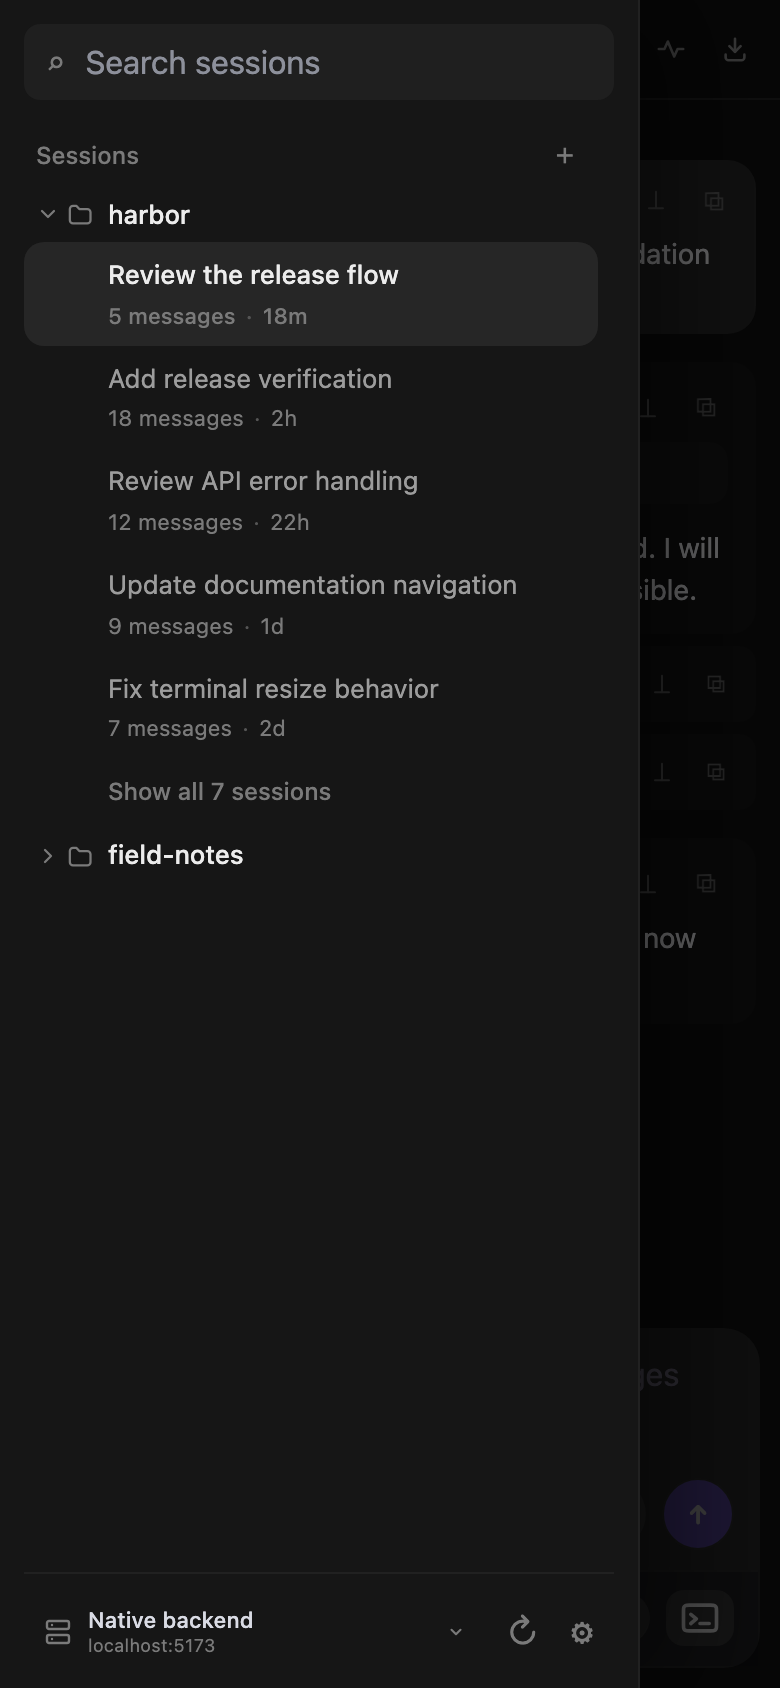
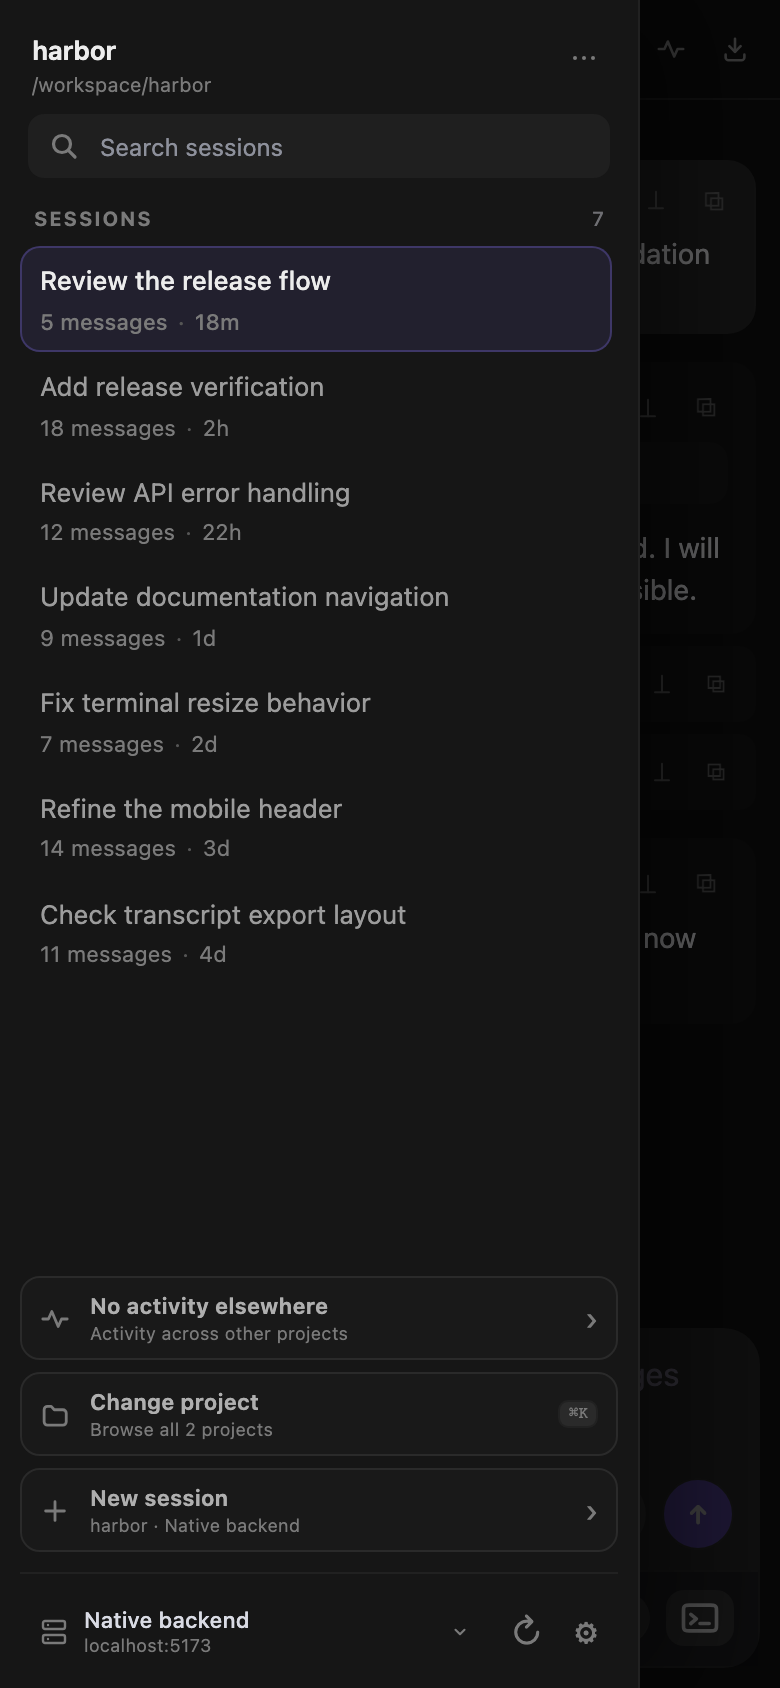
docs(sidebar): refresh project-first navigation

diff --git a/scripts/docs-screenshots.js b/scripts/docs-screenshots.js
@@ -392,7 +392,7 @@ try {
     browser,
     file: path.join(docsOutputDir, 'home.png'),
     route: '/',
-    ready: '.start-panel .start-composer',
+    ready: '.project-sidebar .sidebar-project-shortcuts',
     scenario: 'home',
   })
   await capture({
@@ -431,13 +431,23 @@ try {
   })
   await capture({
     browser,
+    file: path.join(docsOutputDir, 'project-navigation.png'),
+    route: '/sessions/demo-session',
+    ready: '.assistant-message',
+    interact: async (page) => {
+      await page.getByRole('button', { name: 'Change project' }).click()
+      await page.getByRole('dialog', { name: 'Projects' }).waitFor()
+    },
+  })
+  await capture({
+    browser,
     file: path.join(docsOutputDir, 'project-details.png'),
     route: '/sessions/demo-session',
     ready: '.assistant-message',
     interact: async (page) => {
-      const project = page.locator('.project').filter({ hasText: 'harbor' }).first()
-      await project.hover()
-      await project.getByRole('button', { name: 'Project details' }).click()
+      const sidebar = page.locator('.project-sidebar')
+      await sidebar.getByRole('button', { name: 'Project actions' }).click()
+      await sidebar.getByRole('button', { name: 'Project details' }).click()
       const drawer = page.locator('aside[aria-label="Project details"]')
       await drawer.waitFor()
       await drawer.locator('input').fill('release')
@@ -633,7 +643,7 @@ try {
     browser,
     file: path.join(readmeOutputDir, 'home.png'),
     route: '/',
-    ready: '.start-panel .start-composer',
+    ready: '.project-sidebar .sidebar-project-shortcuts',
     viewport: { width: 1503, height: 818 },
     scenario: 'home',
     macWindow: true,
@@ -938,6 +948,18 @@ async function capture({
     const url = new URL(route, baseUrl).toString()
     await page.goto(url, { waitUntil: 'domcontentloaded' })
     await page.locator(ready).first().waitFor({ state: 'visible', timeout: 15000 })
+    if (!exportPage) {
+      await page.locator('.project-sidebar .sidebar-project-shortcuts').waitFor({
+        state: 'attached',
+        timeout: 15000,
+      })
+      await page.waitForFunction(() => {
+        const count = document.querySelector(
+          '.project-session-heading span:last-child',
+        )?.textContent?.trim()
+        return count && count !== '…'
+      }, undefined, { timeout: 15000 })
+    }
     if (viewport.width > 1120 && route.startsWith('/sessions/')) {
       await page.locator('.review-toggle-button:not(.preparing)').waitFor({
         state: 'visible',

diff --git a/src/components/SessionSidebar.vue b/src/components/SessionSidebar.vue
@@ -942,7 +942,7 @@ const vFocusSelect = {
             <path d="M8 3v10M3 8h10"></path>
           </svg>
           <span>
-            <strong>{{ creatingSessionCwd === currentProject.cwd ? 'Creating…' : 'New session here' }}</strong>
+            <strong>{{ creatingSessionCwd === currentProject.cwd ? 'Creating…' : 'New session' }}</strong>
             <small>{{ currentProject.name }} · {{ activeBackendConnection?.name || 'Native backend' }}</small>
           </span>
           <span aria-hidden="true">›</span>

diff --git a/docs/user-guide/projects-and-search.md b/docs/user-guide/projects-and-search.md
@@ -1,36 +1,74 @@
 # Projects and search
 
-Leyline groups regular sessions by project CWD. The project name is the final folder name.
+Leyline uses each session CWD as a project. The project name is the final folder name.
 
-## Search the sidebar
+The sidebar keeps one current project in focus. It shows the project path, session search, session list, and project shortcuts.
+
+## Find a session in the current project
 
 1. Enter text in **Search sessions**.
-2. Select a matching project or session.
+2. Select a matching session.
 
-Search uses fuzzy matching against visible project and session labels. It does not search transcript content.
+Search matches session names and IDs in the current project. Each search term must match one of those values.
 
-All search terms must match one label. Leyline highlights matched characters in each result.
+Search does not inspect transcript content. Clear the field to restore the full session list.
 
-## Expand a project
+## Change the current project
 
-Select a project name to expand or collapse it. The expanded group shows the five-session preview unless search is active.
+![Project navigator with the current project and another available project](../assets/screenshots/project-navigation.png)
 
-Select **Show all N sessions** to show all sessions. Select **Show fewer** to restore the preview.
+*Change project keeps the session list focused on one working directory.*
+
+1. Select **Change project**.
+2. Enter text in **Search projects, paths, or sessions** if necessary.
+3. Select a project or session.
+
+Without a query, the navigator shows all projects. Search matches project names, CWDs, session names, and session IDs.
+
+When you select a project, Leyline opens the last session that you used in that project. Otherwise, it opens the most recent session.
+
+If the project has no sessions, Leyline opens the start screen for that CWD.
+
+Select **Open another folder** to add a project folder.
+
+## Use Go to
+
+Press **Command+K** or **Ctrl+K** to open **Go to**.
+
+Leyline ignores this shortcut during deletion confirmation, transcript editing, or session renaming.
+
+The default view shows projects and current or recent sessions. Enter a query to search all projects and regular sessions.
+
+Press **Escape** or select the shaded area to close the navigator.
+
+## Follow activity in other projects
+
+Select **Activity across other projects** at the bottom of the sidebar.
+
+The navigator excludes the current project and groups active sessions by state:
+
+- **Needs attention** contains unread sessions and errors.
+- **Running** contains running and compacting sessions.
+- **Queued** contains sessions with queued messages.
+
+Select an activity result to open that session.
 
 ## Open Project details
 
 ![Project Details drawer with filtered session cards and sidebar context](../assets/screenshots/project-details.png)
 
-*Project Details provides focused session management for one project.*
+*Project Details provides focused session management for the current project.*
 
-1. Point to a project row.
+1. Select **Project actions** beside the current project.
 2. Select **Project details**.
 
-The **Project details** drawer shows the CWD, session count, and current-session relationship.
+The drawer shows the CWD, session count, and current-session relationship.
+
+The **Project actions** menu also contains **Trash project**. This action moves all project sessions to Leyline trash after confirmation.
 
 ## Filter and sort project sessions
 
-Enter a name or session ID in **Filter sessions**. This filter uses text containment, not fuzzy matching.
+Enter a name or session ID in **Filter sessions**. This filter uses text containment.
 
 Select **Recent** to sort by time. Select **Title** to sort by session title.
 
@@ -50,7 +88,7 @@ Select **New session** to create an empty session in the project CWD.
 
 ## Add a project folder
 
-Select the **New session** plus control in the **Sessions** header. You can also select **Add new project** on the start screen.
+Select **Change project**, then select **Open another folder**. You can also select **Add new project** on the start screen.
 
 The **Add project folder** browser can open an existing folder or create the typed folder. See [Start screen](./start-screen#add-a-project-folder) for its keyboard controls.
 

diff --git a/docs/developer-guide/frontend-state.md b/docs/developer-guide/frontend-state.md
@@ -6,14 +6,14 @@
 
 | Owner | State and behavior |
 | --- | --- |
-| `App.vue` | Drawer visibility, Git review state, composer draft, attachments, edit state, prompt submission, goal commands, subagent and vision settings, project detail selection, and startup motion phases |
-| `useSessionWorkspace.js` | Session list, routes, selected detail, activation, runtime snapshots, model and thinking controls, rename, delete, fork, reset, reload, and sidebar search |
+| `App.vue` | Drawer and sidebar navigator visibility, Git review state, composer draft, attachments, edit state, prompt submission, goal commands, subagent and vision settings, project detail selection, and startup motion phases |
+| `useSessionWorkspace.js` | Session list, project grouping, routes, selected detail, activation, runtime snapshots, sidebar activity rows, model and thinking controls, rename, delete, fork, reset, and reload |
 | `useBackendConnections.js` | App-wide connection records, window-specific selection, connection tests, and default selection |
 | `useTranscriptPreferences.js` | App-wide transcript display settings, loading state, and save errors |
 | `useLiveTurnProjection.js` | Optimistic user entries, live assistant blocks, live tools, compaction activity, and live-to-persisted reconciliation |
 | `useRuntimeEvents.js` | EventSource lifecycle, connection state, and the local event log |
 | `useMemoryInspector.js` | Visible Memory data, loading, optimistic mutations, dirty-state guards, and drawer state |
-| `useProjectBrowser.js` | Project picker state, project expansion, and project-browser visibility |
+| `useProjectBrowser.js` | Project picker state, folder expansion, and project-browser visibility |
 | `useToolExpansion.js` | Tool and skill expansion, copy state, and fullscreen previews |
 | `useWorkbenchScroll.js` | Bottom following, composer space, new-output state, and Jump to latest |
 | `useTerminal.js` | xterm, WebSocket, PTY status, focus, fit, and drawer height |
@@ -24,7 +24,9 @@
 
 `App.vue` creates the composables and passes narrow props and events to components. Components do not own session runtime objects.
 
-`SessionSidebar.vue` renders grouped projects and session controls. `SessionComposer.vue` and `StartComposer.vue` own local input mechanics and dictation adapters.
+`SessionSidebar.vue` renders the current project and its virtualized session list. It owns session search, navigator search, stable project order, and cross-project activity groups.
+
+`SessionComposer.vue` and `StartComposer.vue` own local input mechanics and dictation adapters.
 
 `TranscriptEntry.vue` renders persisted entries and emits transcript actions. `LiveAssistantMessage.vue` renders live assistant output.
 
@@ -63,7 +65,7 @@ The selected session route is `/sessions/:id`. Browser history changes call the 
 
 SSE can send snapshots for all server handles. `App.vue` updates the selected runtime only when the IDs match.
 
-Background event summaries remain in `runtimeSessionsById`. This lets the sidebar show work that continues outside the selected session.
+Background event summaries remain in `runtimeSessionsById`. They supply row status in the current project and the **Activity across projects** navigator.
 
 ## Persisted and live transcript state
 
@@ -139,7 +141,7 @@ A selected-session change resets scroll state. The terminal height and composer 
 
 ## Drawer coordination
 
-`App.vue` coordinates Project Details, Settings, Runtime Events, Memory, Subagents, and Vision agent. Opening one contextual side drawer closes conflicting drawers.
+`App.vue` coordinates Project Details, Settings, Runtime Events, Memory, Subagents, Vision agent, and sidebar navigators. Opening a navigator closes conflicting drawers and configuration surfaces.
 
 Git review uses a separate desktop grid track. It can remain open with the contextual drawer state.
 

diff --git a/docs/user-guide/sessions.md b/docs/user-guide/sessions.md
@@ -4,20 +4,22 @@ A session contains one pi conversation tree. Leyline shows the active branch as 
 
 ## Select a session
 
-1. Expand a project in the sidebar.
-2. Select a session name.
+1. Find the session in the current project list.
+2. Select the session name.
 
-You can also focus a session row and press **Enter** or **Space**.
+Select **Change project** first when the session belongs to a different project.
+
+You can also focus a session row and press **Enter** or **Space**. Press **Arrow Up** or **Arrow Down** to focus another row.
 
 A selected session uses the route `/sessions/<encoded-id>`. The start screen uses `/`.
 
-## Show more sessions
+## Browse the session list
 
-Each expanded project shows its five most recent sessions first. The selected session also remains visible when it is outside that preview.
+The sidebar shows all regular sessions in the current project. It orders them from most recent modification to oldest.
 
-Select **Show all N sessions** to show the full project list. Select **Show fewer** to restore the preview.
+The **Sessions** heading shows the session count. The list scrolls when it is longer than the available space.
 
-A session search shows all matching sessions and hides this preview control.
+Enter a session name or ID in **Search sessions** to filter the current project.
 
 ## Read runtime status
 
@@ -29,13 +31,13 @@ A session row can show these states:
 - **+N queued**: steering or follow-up messages are waiting.
 - **error**: the background runtime reported an error.
 
-The **Sessions** heading summarizes running, compacting, and unread sessions. Background sessions continue when you open another session.
+Select **Activity across other projects** to find active sessions outside the current project. Background sessions continue when you open another session.
 
 ## Create a session in a project
 
-Select the **New session** button beside a project. You can also select **New session** in **Project details**.
+Select **New session** at the bottom of the sidebar. You can also select **New session** in **Project details**.
 
-Leyline creates an empty session in that project's CWD. Use the centered composer to send its first prompt.
+Leyline creates an empty session in the current project CWD. Use the centered composer to send its first prompt.
 
 ## Rename a session from the sidebar
 

diff --git a/docs/user-guide/keyboard-shortcuts.md b/docs/user-guide/keyboard-shortcuts.md
@@ -9,7 +9,7 @@ Leyline provides composer, browser, rename, terminal, and Electron shortcuts.
 | **Enter** | Submit a prompt. During a run, queue **Steering**. |
 | **Option+Enter** | During a run, queue **Follow-up**. |
 | **Shift+Enter** | Add a line break. |
-| **Escape** | Stop an active run and close open menus, drawers, dialogs, previews, or edit mode. |
+| **Escape** | Close an open menu, drawer, dialog, preview, or edit mode. With no open surface, stop the active run. |
 
 ## Use slash command shortcuts
 
@@ -21,6 +21,15 @@ These shortcuts apply while the slash command picker is open.
 | **Arrow Up** | Select the previous result. |
 | **Tab** or **Enter** | Insert the selected command. |
 | **Escape** | Close the picker. |
+
+## Use navigation shortcuts
+
+| Shortcut | Action |
+| --- | --- |
+| **Command+K** or **Ctrl+K** | Open **Go to** for projects and sessions. |
+| **Escape** | Close the open navigator. |
+
+Leyline ignores the **Go to** shortcut during deletion confirmation, transcript editing, or session renaming.
 
 ## Use project folder shortcuts
 
@@ -39,6 +48,8 @@ These shortcuts apply in **Add project folder**.
 | Shortcut | Action |
 | --- | --- |
 | **Enter** or **Space** | Open a focused session row. |
+| **Arrow Down** | Focus the next session row. |
+| **Arrow Up** | Focus the previous session row. |
 | **Enter** while renaming | Save the session name. |
 | **Escape** while renaming | Cancel the rename. |
 
@@ -74,6 +85,6 @@ Focus the **Resize terminal** handle first.
 | **Command+Shift+E** | Open or close **Settings**. |
 | **Command+Shift+M** | Open or close **Memory**. |
 | **Command+E** | Hide or show the desktop sidebar. On mobile, open or close it. |
-| **Escape** | Stop the active run and close transient interface surfaces. |
+| **Escape** | Close an open transient surface. With no open surface, stop the active run. |
 
 The new-session shortcuts require a current session CWD. Leyline ignores the same-window new-session command during an active run or session creation.

diff --git a/docs/reference/api.md b/docs/reference/api.md
@@ -46,11 +46,15 @@ SessionSummary = {
   parentSessionPath?: string,
   isSubagentSession: boolean,
   firstMessage: string,
+  messageCount: number,
+  modified?: string,
   timestamp?: string
 }
 ```
 
-`timestamp` is the session creation time as an ISO string. `firstMessage` is limited to 140 characters.
+`timestamp` is the session creation time as an ISO string. `modified` is the latest user or assistant message time.
+
+For persisted sessions without message times, `modified` uses the session creation time or file modification time. `messageCount` counts all message records. `firstMessage` is limited to 140 characters.
 
 ### Session detail
 
@@ -272,6 +276,8 @@ Response:
 ```
 
 The list includes persisted sessions and open runtimes that are not yet in the persisted list.
+
+Persisted sessions use descending `modified` order. Runtime-only sessions appear before the persisted list.
 
 ### `POST /api/pi/sessions`
 

diff --git a/README.md b/README.md
@@ -18,10 +18,11 @@ connections to other Leyline backends.
 
 ## Features
 
-Browse, search, create, and run pi sessions from a focused web UI. Leyline shows
-rendered transcripts, live runtime output, Git changes, model controls, memory,
-subagents, runtime events, and an embedded terminal. Each window can use the
-native backend or a saved backend connection.
+Browse, search, create, and run pi sessions from a focused web UI. The sidebar
+keeps one project in focus, and **Go to** searches sessions across projects.
+Leyline shows rendered transcripts, live runtime output, Git changes, model
+controls, memory, subagents, runtime events, and an embedded terminal. Each
+window can use the native backend or a saved backend connection.
 
 On desktop, the Git review pane prepares changed files and the selected diff
 before it opens. It separates staged and working-tree changes and can expand

diff --git a/docs/developer-guide/architecture.md b/docs/developer-guide/architecture.md
@@ -105,6 +105,10 @@ Pi sessions are tree-structured JSONL files. The default directory is `~/.pi/age
 
 `PI_CODING_AGENT_SESSION_DIR` overrides session discovery and creation. Otherwise, Leyline uses pi's configured `sessionDir` or pi's default directory.
 
+Session discovery reads JSONL files with a bounded worker pool. It caches summaries by file modification time and size and combines concurrent list requests.
+
+Persisted summaries use the latest user or assistant message time for ordering. Session names come from the latest `session_info` entry.
+
 Normal session changes use pi session and runtime methods. Transcript detail opens the file with `SessionManager.open(path)` and reads `getBranch()`.
 
 Leyline projects the branch through `lib/transcript-projection.js`. The same projected DTO supplies the browser transcript and HTML export.

diff --git a/docs/integrations/pi-sdk.md b/docs/integrations/pi-sdk.md
@@ -1,6 +1,8 @@
 # pi SDK integration
 
-Leyline uses `SessionManager.listAll()` for normal session discovery. If `PI_CODING_AGENT_SESSION_DIR` is set, Leyline scans that directory instead. It uses `SessionManager.open(path)` and `getBranch()` for transcript detail.
+Leyline discovers sessions by scanning pi JSONL files with bounded concurrent readers. It caches unchanged summaries by file modification time and size.
+
+`PI_CODING_AGENT_SESSION_DIR` selects a different session root. Leyline uses `SessionManager.open(path)` and `getBranch()` for transcript detail.
 
 `AgentSessionRuntime` owns execution. Leyline keeps one runtime handle for each open session and tracks one selected active handle. Scoped API actions can run in background sessions without changing the selected session.
 

diff --git a/docs/user-guide/mobile.md b/docs/user-guide/mobile.md
@@ -21,11 +21,13 @@ The **Memory**, **Events**, and **Export transcript** icons remain available. Th
 *The session navigator opens above the mobile workbench.*
 
 1. Select **Open sessions** in the header.
-2. Select a project or session.
+2. Select a session in the current project.
+
+Select **Change project** before you select a session from another project.
 
 The sidebar opens over the workbench. Select the shaded area or a session to close it.
 
-The sidebar can use up to 86 percent of the viewport width, with a maximum width of 320 pixels.
+The sidebar can use up to 86 percent of the viewport width, with a maximum width of 320 pixels. Project, activity, and **Go to** navigators use the full viewport.
 
 ## Use transcript actions
 

diff --git a/docs/index.md b/docs/index.md
@@ -18,7 +18,7 @@ hero:
 
 features:
   - title: Browse sessions and projects
-    details: Search sessions, group them by project, inspect project history, and move between parent and child sessions.
+    details: Keep one project in focus, search its sessions, use Go to across projects, and move between parent and child sessions.
   - title: Run and direct agents
     details: Submit prompts, images, shell commands, steering messages, queued follow-ups, slash commands, and long-running goals.
   - title: Use images with any model
